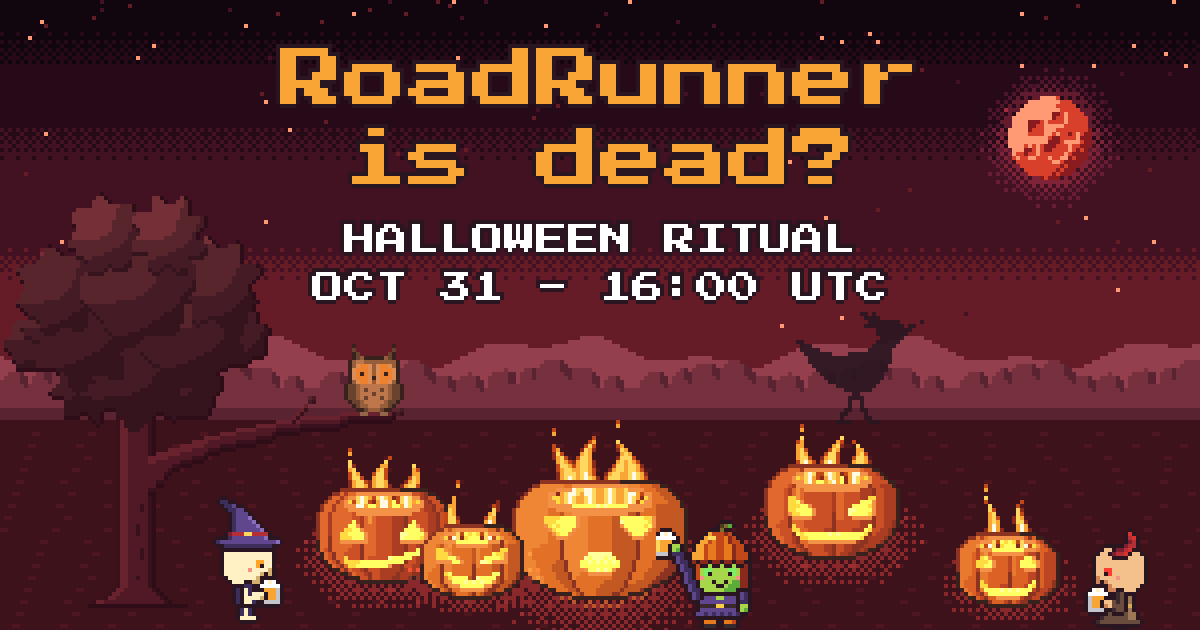
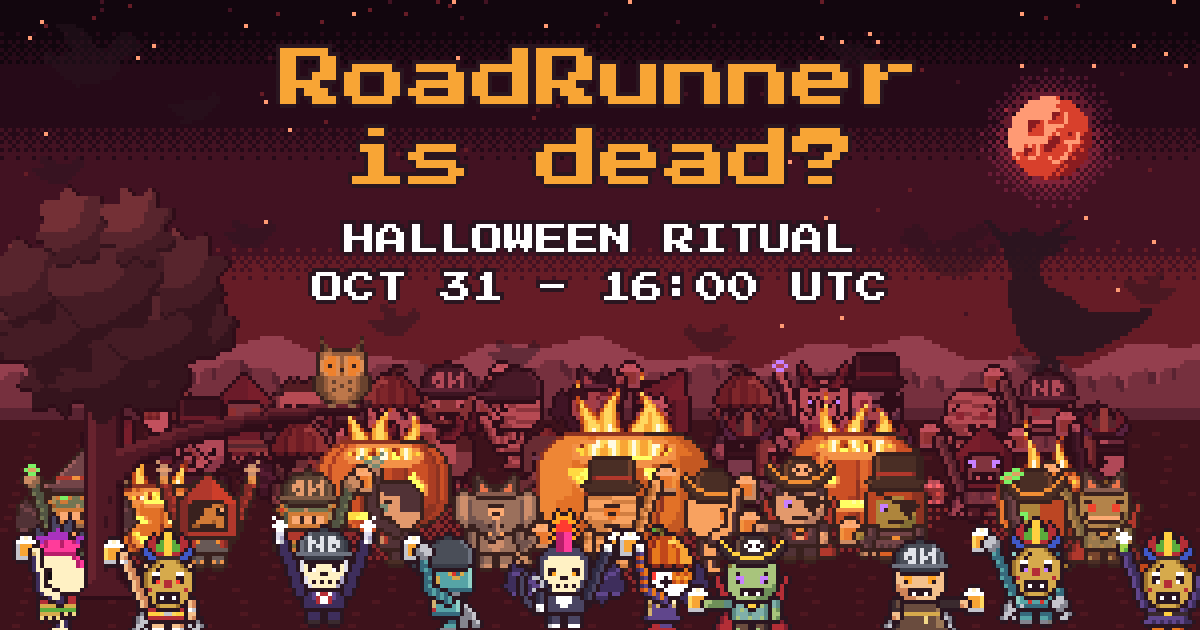
feat(views): crowd the link preview with players and ducks in the sky
Assisted-By: Claude Opus 5.5 <noreply@anthropic.com>

Changed region(s): [[0.0, 0.3016, 1.0, 1.0], [0.0617, 0.4222, 0.0925, 0.4524]]

diff --git a/public/dev/og.html b/public/dev/og.html
@@ -15,10 +15,11 @@
 <canvas id="og" width="300" height="158"></canvas>
 <script type="module">
     import { pumpkinLayers, silhouette, DECOR, bake } from '../js/pixel/sprites.js';
-    import { paintSky, bakeLit, halo, NIGHT, LIT_PALETTE } from '../js/pixel/night.js';
+    import { FLYERS } from '../js/pixel/flyers.js';
+    import { paintSky, bakeLit, relightCanvas, halo, NIGHT, LIT_PALETTE } from '../js/pixel/night.js';
     import { OWL } from '../js/pixel/owl.js';
     import { RUNNER } from '../js/pixel/finale.js';
-    import { characterFrame } from '../js/pixel/characters.js';
+    import { characterFrame, randomLook } from '../js/pixel/characters.js';
     import { PALETTE } from '../js/pixel/palette.js';
 
     const W = 300;
@@ -60,16 +61,17 @@
         for (let x = (y * 7) % 11; x < W; x += 11 + (y % 5)) ctx.fillRect(x, y, 2, 1);
     }
 
-    // RoadRunner on the horizon: only a dark shape — is it dead?
-    const runner = silhouette(RUNNER.l.run[1], 'outline');
-    put(bake(runner), runner.anchor, 214, HORIZON + 2, { alpha: 0.9 });
+    // Ducks far off in the sky: shapes in the sky's own tone, seen only on a second look
+    const ducks = [[22, 16, 2, 0], [48, 28, 1, 2], [14, 44, 1, 1], [62, 60, 1, 3], [236, 64, 2, 1], [212, 14, 1, 2],
+        [286, 74, 1, 0], [34, 84, 1, 2], [128, 90, 1, 1], [176, 86, 1, 3], [98, 82, 1, 0], [258, 92, 1, 2]];
+    for (const [x, y, depth, f] of ducks) {
+        const duck = silhouette(FLYERS.duck[depth].fly[f], 'outline');
+        put(bake(duck), duck.anchor ?? { x: duck.w >> 1, y: duck.h >> 1 }, x, y, { flip: x > 150, alpha: 0.45 });
+    }
 
-    // The owl on the dead tree, the narrator
-    const tree = DECOR.tree;
-    sprite(tree, 34, H - 6, {}, 'blood');
-    const perch = tree.perch;
-    const owl = OWL.hoot;
-    sprite(owl, 34 - tree.anchor.x + perch[0], H - 6 - tree.anchor.y + perch[1]);
+    // RoadRunner on the horizon: only a dark shape — is it dead?
+    const runner = silhouette(RUNNER.xl.stop, 'outline');
+    put(bake(runner), runner.anchor, 262, HORIZON - 4, { alpha: 0.9, flip: true });
 
     // Lit pumpkins with fire on top and their warm halos
     const pumpkin = (stage, size, seed, x, y) => {
@@ -83,20 +85,45 @@
             put(lit ? bake(layer) : bakeLit(layer, 'firelight'), p.anchor, x, y, { add: name === 'glow' });
         }
     };
-    pumpkin(7, 'm', 7, 96, 146);
-    pumpkin(7, 'l', 3, 150, 150);
-    pumpkin(7, 's', 11, 118, 150);
-    pumpkin(7, 'm', 21, 208, 140);
-    pumpkin(7, 's', 5, 252, 152);
 
-    // Players with beer around the pumpkins
-    const walker = (look, x, y, opts = {}) => {
-        const f = characterFrame(look, { dir: opts.dir ?? 'front', pose: opts.pose ?? 'idle', item: 'beer' });
-        put(f.canvas, f.anchor, x, y, { flip: opts.flip });
+    // A crowd of players, row behind row: the far rows sink into the blood-moon light
+    let seed = 2026;
+    const random = () => {
+        seed = (seed + 0x6d2b79f5) | 0;
+        let t = Math.imul(seed ^ (seed >>> 15), 1 | seed);
+        t = (t + Math.imul(t ^ (t >>> 7), 61 | t)) ^ t;
+        return ((t ^ (t >>> 14)) >>> 0) / 4294967296;
     };
-    walker({ body: 'skeleton', hat: 'witch', eyes: 'amber', face: 'smile', cloak: 'none' }, 62, 156, { dir: 'side' });
-    walker({ body: 'witch', hat: 'pumpkin', eyes: 'green', face: 'smile', cloak: 'none' }, 180, 158, { pose: 'toast' });
-    walker({ body: 'robe', hat: 'horns', eyes: 'red', face: 'smile', cloak: 'none' }, 280, 158, { dir: 'side', flip: true });
+    const pick = (list) => list[Math.floor(random() * list.length)];
+    const walker = (x, y, lighting) => {
+        const pose = pick(['idle', 'idle', 'toast', 'toast', 'clink', 'drink', 'fidget', 'ritual']);
+        const f = characterFrame(randomLook(random), {
+            dir: pick(['front', 'front', 'side']),
+            pose,
+            frame: Math.floor(random() * 4),
+            item: pose === 'ritual' ? null : 'beer',
+        });
+        put(lighting ? relightCanvas(f.canvas, lighting) : f.canvas, f.anchor, x, y, { flip: random() < 0.5 });
+    };
+    const scene = [];
+    const rows = [[116, 'blood', 13, 18], [128, 'blood', 12, 22], [141, 'firelight', 11, 26], [157, null, 10, 30]];
+    for (const [y, lighting, count, step] of rows) {
+        const start = (W - (count - 1) * step) / 2;
+        for (let i = 0; i < count; i++) {
+            const x = start + i * step + Math.round((random() - 0.5) * step * 0.5);
+            scene.push({ y: y + Math.round(random() * 3), draw: (yy) => walker(x, yy, lighting) });
+        }
+    }
+    for (const [size, s, x, y] of [['m', 7, 96, 134], ['l', 3, 156, 138], ['m', 21, 214, 132], ['s', 5, 262, 136], ['s', 11, 40, 140]]) {
+        scene.push({ y, draw: (yy) => pumpkin(7, size, s, x, yy) });
+    }
+    // The owl on the dead tree, the narrator, stands among the crowd
+    scene.push({ y: 150, draw: (y) => {
+        const tree = DECOR.tree;
+        sprite(tree, 26, y, {}, 'blood');
+        sprite(OWL.hoot, 26 - tree.anchor.x + tree.perch[0], y - tree.anchor.y + tree.perch[1]);
+    } });
+    scene.sort((a, b) => a.y - b.y).forEach((e) => e.draw(e.y));
 
     // Text: rendered at art scale and thresholded, so every glyph is crisp pixels with a hard outline
     await document.fonts.load('16px "Press Start 2P"');
